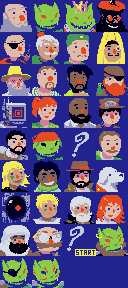
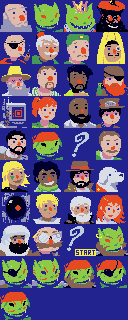
more variety for adopted goblin crew

diff --git a/source/data/character_art.h b/source/data/character_art.h
@@ -3,13 +3,13 @@
 
 //======================================================================
 //
-//	character_art, 128x288@4, 
+//	character_art, 128x320@4, 
 //	Transparent color : FF,00,FF
 //	+ palette 16 entries, not compressed
-//	+ 576 tiles Metatiled by 4x4 not compressed
-//	Total size: 32 + 18432 = 18464
+//	+ 640 tiles Metatiled by 4x4 not compressed
+//	Total size: 32 + 20480 = 20512
 //
-//	Time-stamp: 2024-12-07, 17:34:31
+//	Time-stamp: 2024-12-07, 17:44:56
 //	Exported by Cearn's GBA Image Transmogrifier, v0.9.2
 //	( http://www.coranac.com/projects/#grit )
 //
@@ -18,8 +18,8 @@
 #ifndef GRIT_CHARACTER_ART_H
 #define GRIT_CHARACTER_ART_H
 
-#define character_artTilesLen 18432
-extern const unsigned int character_artTiles[4608];
+#define character_artTilesLen 20480
+extern const unsigned int character_artTiles[5120];
 
 #define character_artPalLen 32
 extern const unsigned short character_artPal[16];
